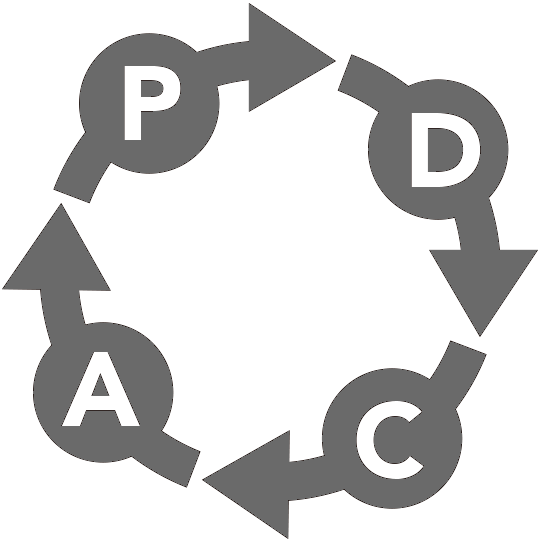
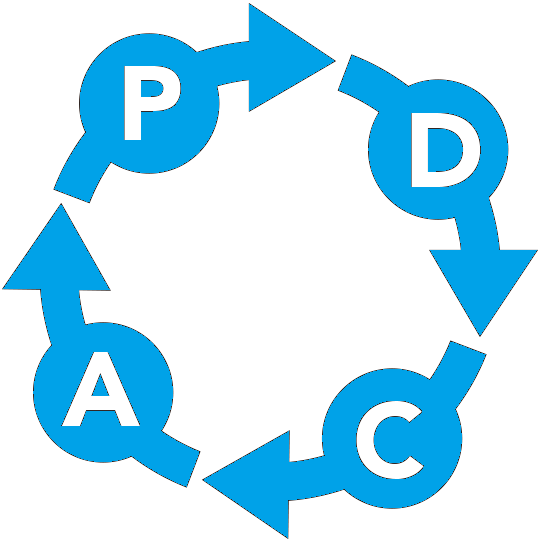
NOSOTROS-Cambiado de color a iconos por el de la pagina en gral.Agregado de info al carousel de departamentos que faltaban y cambiado de imagenes finales. Acomododado de texto informativo de los departamentos hacia la izq y agregado de sombreado para que resalte el texto y sea mas legible

Changed region(s): [[0.0, 0.0, 0.9963, 0.9873]]

diff --git a/views/nosotros.html b/views/nosotros.html
@@ -196,7 +196,7 @@
 
         <hr class="featurette-divider">
 
-        <h2 class="mt-5 text-primary" id="colaboradores_title">Ventas</h2>
+        <h2 class="mt-5 text-primary" id="colaboradores_title">Sector Comercial</h2>
         <div class="row d-flex justify-content-between data-block mt-2 mb-4">
           <div id="carouselExampleDark" class="carousel slide" data-bs-ride="carousel">
             <div class="carousel-indicators">
@@ -239,7 +239,7 @@
                 <img src="../public/assets/DIV_ALU.jpg" class="d-block w-100" alt="...">
                 <div class="carousel-caption d-none d-md-block r-text-5">
                   <p>
-                    Lorem Ipsum is simply dummy text of the printing and typesetting industry. 
+                    Nuestro equipo encargado de realizar sus aberturas metálicas con calidad alemana.
                   </p>
                 </div>
               </div>
@@ -247,7 +247,7 @@
                 <img src="../public/assets/DIV_PVC.jpeg" class="d-block w-100" alt="...">
                 <div class="carousel-caption d-none d-md-block r-text-5">
                   <p>
-                    Lorem Ipsum is simply dummy text of the printing and typesetting industry. 
+                    Nuestro equipo quien realiza sus aberturas de PVC de la misma manera que en realiza Alemania.
                   </p>
                 </div>
               </div>
@@ -255,7 +255,7 @@
                 <img src="../public/assets/Vidrio.jpg" class="d-block w-100" alt="...">
                 <div class="carousel-caption d-none d-md-block r-text-5">
                   <p>
-                    Lorem Ipsum is simply dummy text of the printing and typesetting industry. 
+                    Nuestros colaboradores encargados de dar el ultimo toque a las aberturas.
                   </p>
                 </div>
               </div>
@@ -263,7 +263,7 @@
                 <img src="../public/assets/LOGISTICA.jpeg" class="d-block w-100" alt="...">
                 <div class="carousel-caption d-none d-md-block r-text-5">
                   <p>
-                    Lorem Ipsum is simply dummy text of the printing and typesetting industry. 
+                    Nuestro personal a cargo de garantizar el optimo transporte de las aberturas a su vivienda.
                   </p>
                 </div>
               </div>
@@ -271,7 +271,7 @@
                 <img src="../public/assets/COLOCACION.jpeg" class="d-block w-100" alt="...">
                 <div class="carousel-caption d-none d-md-block r-text-5">
                   <p>
-                    Lorem Ipsum is simply dummy text of the printing and typesetting industry. 
+                    Nuestro eslabón final con el cliente, quienes dan los toques finales en obra. 
                   </p>
                 </div>
               </div>

diff --git a/public/stylesheets/nosotros.css b/public/stylesheets/nosotros.css
@@ -43,6 +43,7 @@
 .svg-list .tarjeta svg{
   height: auto;
   width: 10vh;
+  color: #00A2E8;
 }
 
 .tarjeta{
@@ -63,6 +64,10 @@
 #modal_valores_info{
   margin: auto;
   vertical-align: middle;
+}
+
+#modal_valores_icon{
+  color: #00A2E8;
 }
 
 .modal{
@@ -94,6 +99,14 @@
 
 .carousel-item-obra{
   height: 100% ;
+}
+
+.carousel-caption {
+  bottom: 1rem;
+  text-align: initial;
+}
+.carousel-caption p{
+  text-shadow: 2px 2px #444141;
 }
 
 

diff --git a/public/javascripts/nosotros.js b/public/javascripts/nosotros.js
@@ -1,4 +1,4 @@
-titulos_carousel = ['Ventas','Administración','Oficina Tecnica','Sector Aluminio','Sector PVC','Sector Vidrio','Logistica','Colocación'];
+titulos_carousel = ['Sector Comercial','Administración','Oficina Tecnica','Sector Aluminio','Sector PVC','Sector Vidrio','Logistica','Colocación'];
 let car_indicator = 0;
 
 function updateModal(title,info,icon){
